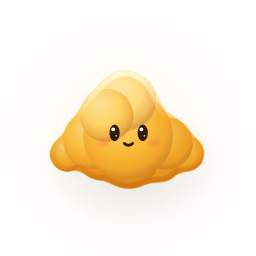
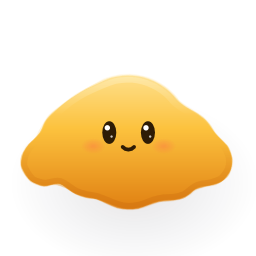
Kumo 0.1.0 (en curso): icono nuevo con el dibujo de ahora (liso, sin halo ni bultos), algo más grande en su cuadrado

Changed region(s): [[0.0625, 0.25, 0.9062, 0.8438], [0.625, 0.5938, 0.6562, 0.625], [0.3438, 0.5625, 0.375, 0.5938]]

diff --git a/Kumo/tools/KumoArt/Program.cs b/Kumo/tools/KumoArt/Program.cs
@@ -24,7 +24,7 @@ var thread = new Thread(() =>
 
     var package = args.Length > 0 ? Path.GetFullPath(args[0]) : FindPackage(AppContext.BaseDirectory);
     var icon = Path.Combine(package, "icon.png");
-    KumoSheet.Save(KumoSheet.Portrait(256, 0.33), icon);
+    KumoSheet.Save(KumoSheet.Portrait(256, 0.37), icon);
     Console.WriteLine(icon);
 });
 thread.SetApartmentState(ApartmentState.STA);
